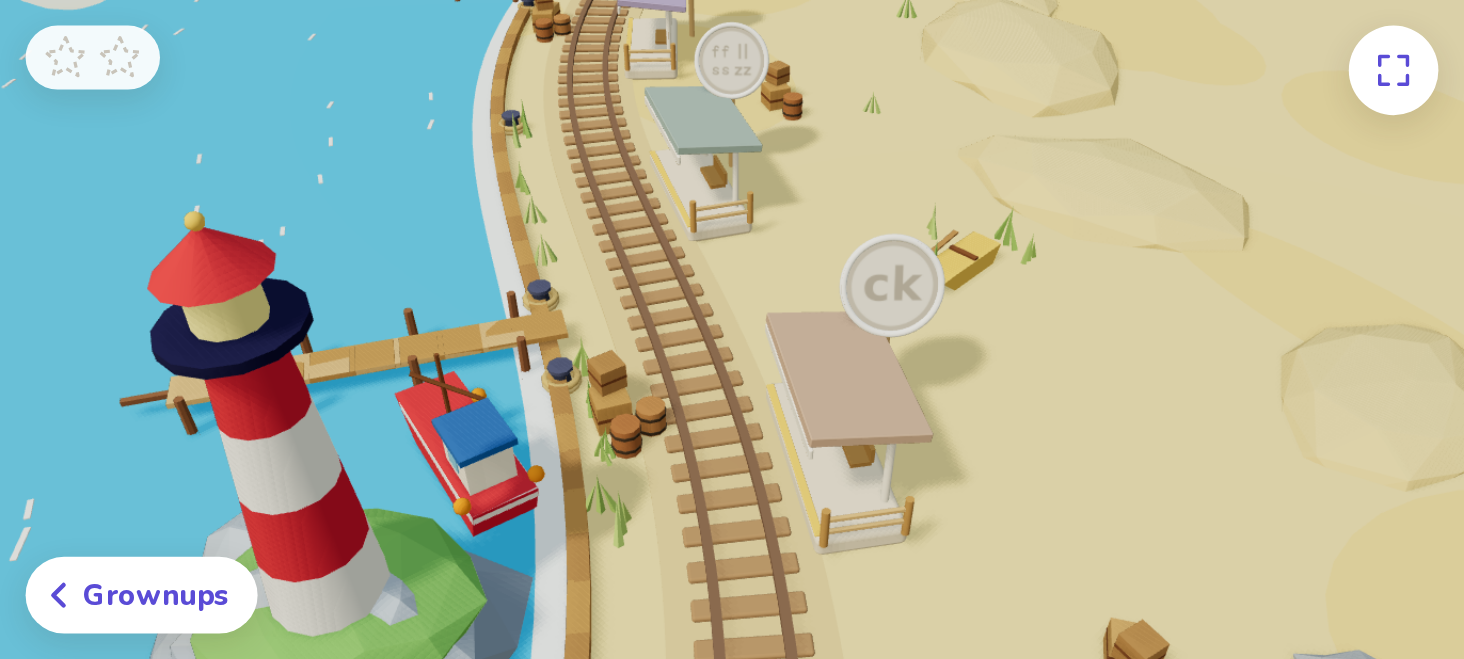
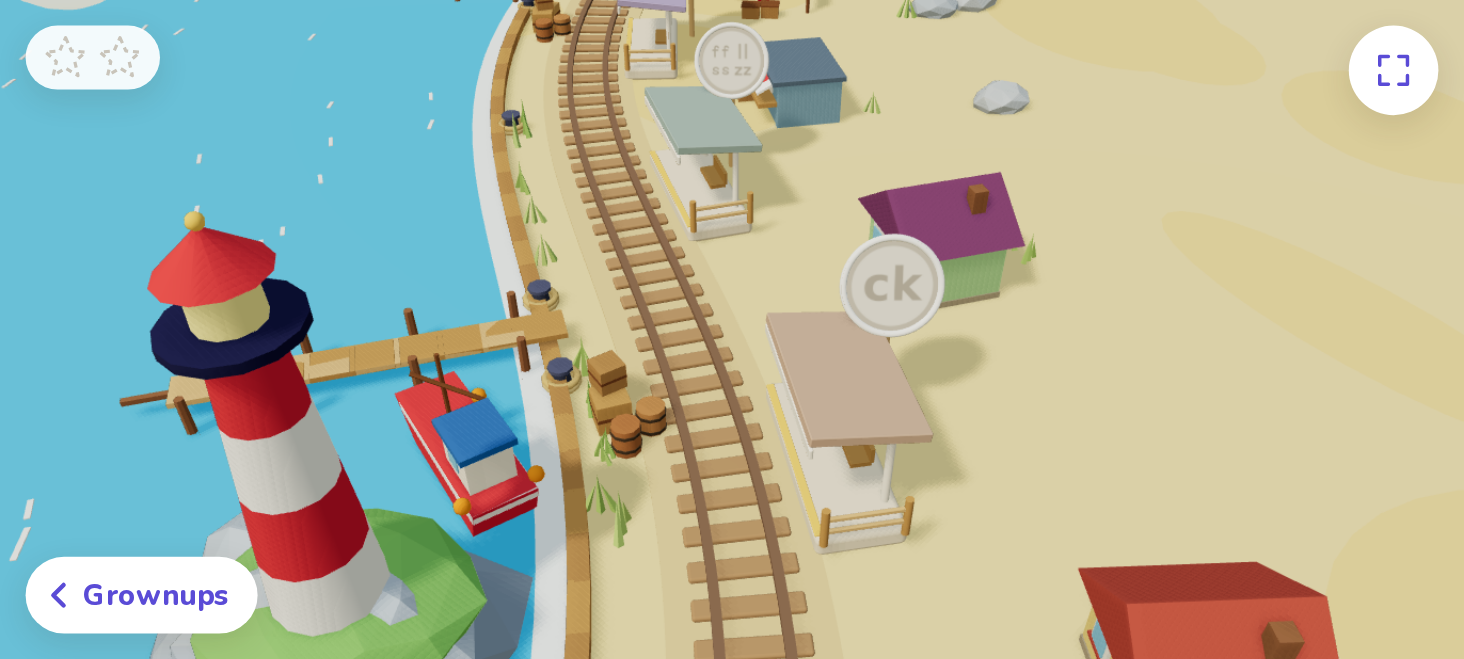
Regions: greener W3 portal mountain with crop stripes and orchard trees; W4 harbour village replaces the dunes
Claude-Session: https://claude.ai/code/session_016cKvBQBv9Ceas6c2YjYcfF

diff --git a/js/train/regions.js b/js/train/regions.js
@@ -127,7 +127,7 @@ function sunnyHills({ bag, line, stops, stationCount, group, sky, R }) {
   const real = stops.length; void real;
 
   // rolling hills, far and near, in a few golden greens
-  const lows = ['#9CCB45', '#8CC24A', '#A8CE4C', '#93C84B'], highs = ['#EBDC6A', '#E0DB68', '#F2E074', '#E6DA66'];
+  const lows = ['#6DBE48', '#5FB646', '#7BC44A', '#68BC47'], highs = ['#BCD95A', '#AED45A', '#CADB62', '#B6D65C'];
   let hills = 0;
   for (let i = 0; i < 34 && hills < 22; i++) {
     const far = i % 2 === 0, s = L0 - 4 + (i / 34) * (span + 8) + R() * 3, off = (far ? -1 : 1) * (far ? 10 + R() * 9 : 11 + R() * 10);
@@ -465,30 +465,73 @@ function docks({ bag, line, stops, stationCount, group, sky, R, W }) {
     m.castShadow = false;
     group.add(m);
   }
-  // the landward side: low sand dunes, a few grey-blue rocks, crates and barrels between the stations, a rowing boat pulled up on the sand
+  // the landward side: a little harbour village on the stations' side, one thing in each gap between stations (beyond the signs):
+  // four colourful cottages, a fish shack with a striped awning, buoys, lobster pots and a net-drying rack, a beach umbrella and a rowing boat
   {
     const rock = blobGeo(bag, 'rockblob', 733, { detail: 1, jit: 0.3 });
-    const dune = blobGeo(bag, 'duneblob', 521, { detail: 1, jit: 0.2 });
-    for (let i = 0; i < 12; i++) {
-      const s = L0 - 4 + (i / 12) * (span + 8) + R() * 3, off = (i % 3 === 0 ? 8.5 : 11.5) + R() * 8, f = frame(s, off);
-      if (nearExtra(s, 7) && off < 18) continue;
-      const k = 0.8 + R() * 0.6;
-      bake.add(dune, { p: [f.x, -0.22, f.z], r: [0, R() * 3, 0], s: [3.4 * k, 0.9 * k, 2.4 * k], colorFn: (c) => lerpHex('#EBCF8A', '#F7E3A6', Math.max(0, (c.y + 0.2) / (0.9 * k))) });
+    const TRIM = '#FFF8EC';
+    // a local frame at the middle of gap i: +x points at the track, +z along the line
+    const gap = (i, off) => { const s = stops[Math.min(i, stationCount - 1)] + 4.5; if (i >= stationCount - 1 || nearExtra(s, 6)) return null; const f = frame(s, off), c = Math.cos(f.heading), sn = Math.sin(f.heading); return { f, hd: f.heading, lp: (lx, ly, lz) => [f.x + lx * c + lz * sn, ly, f.z - lx * sn + lz * c] }; };
+    const cottage = (g, wall, roof, door) => {
+      const { lp, hd } = g, R0 = [0, hd, 0], D = 2.0, W = 2.2, H = 1.35;
+      bake.add(box(bag, D, H, W), { p: lp(0, H / 2, 0), r: R0, color: wall });
+      bake.add(box(bag, D + 0.04, 0.14, W + 0.04), { p: lp(0, 0.07, 0), r: R0, color: '#B7A98F' });
+      bake.add(prism(bag, W + 0.45, 0.95, D + 0.5), { p: lp(0, H, 0), r: [0, hd + Math.PI / 2, 0], color: roof });
+      bake.add(box(bag, 0.08, 0.1, 0.1), { p: lp(0, 0, 0), r: R0, color: roof });
+      bake.add(box(bag, 0.3, 0.55, 0.3), { p: lp(-0.5, H + 0.7, -0.5), r: R0, color: '#9A6B4A' }); // chimney
+      bake.add(box(bag, 0.07, 0.92, 0.52), { p: lp(D / 2 + 0.03, 0.46, -0.45), r: R0, color: door });
+      bake.add(box(bag, 0.07, 0.5, 0.5), { p: lp(D / 2 + 0.03, 0.82, 0.55), r: R0, color: TRIM });
+      bake.add(box(bag, 0.09, 0.36, 0.36), { p: lp(D / 2 + 0.05, 0.82, 0.55), r: R0, color: '#8FD0F0' });
+      bake.add(box(bag, 0.09, 0.05, 0.62), { p: lp(D / 2 + 0.05, 0.56, 0.55), r: R0, color: roof }); // sill
+      bake.add(box(bag, 0.5, 0.5, 0.07), { p: lp(0.1, 0.8, W / 2 + 0.03), r: R0, color: TRIM });
+      bake.add(box(bag, 0.36, 0.36, 0.09), { p: lp(0.1, 0.8, W / 2 + 0.05), r: R0, color: '#8FD0F0' });
+    };
+    [['#F9B8C6', '#B9484C', '#4F86C6'], ['#9FD8DD', '#3F6E9A', '#F2B94B'], ['#FFE08A', '#C0594A', '#3C9C8A'], ['#B8E3A2', '#8A4F7D', '#E5484D']].forEach((c, i) => { const g = gap(i, 5.7); if (g) cottage(g, ...c); });
+    // the fish shack: weathered blue boards, a counter, a red-and-white striped awning, a sign
+    {
+      const g = gap(4, 5.6);
+      if (g) {
+        const { lp, hd } = g, R0 = [0, hd, 0];
+        bake.add(box(bag, 1.7, 1.2, 2.4), { p: lp(0, 0.6, 0), r: R0, color: '#8FB4C9' });
+        bake.add(box(bag, 1.95, 0.12, 2.65), { p: lp(0.05, 1.28, 0), r: [0, hd, 0.0], color: '#6B7F93' });
+        for (let k = -3; k <= 3; k++) bake.add(box(bag, 0.5, 0.06, 0.34), { p: lp(1.2, 1.12 - 0.0, k * 0.34), r: [0, hd, -0.5], color: k % 2 ? '#FFFFFF' : '#E5484D' });
+        bake.add(box(bag, 0.6, 0.12, 2.2), { p: lp(1.05, 0.62, 0), r: R0, color: '#C99A5B' });
+        bake.add(box(bag, 0.06, 0.4, 1.2), { p: lp(0.86, 0.92, 0), r: R0, color: TRIM });
+        bake.add(box(bag, 0.5, 0.4, 0.5), { p: lp(1.3, 0.2, 0.7), r: R0, color: '#B98B55' });
+        for (const z of [-0.3, 0.1]) bake.add(ball(bag, 8, 6), { p: lp(1.3, 0.45, z + 0.7), s: [0.2, 0.08, 0.1], color: '#9FB6C8', smooth: true });
+      }
+    }
+    // buoys, lobster pots and a net-drying rack
+    {
+      const g = gap(5, 5.4);
+      if (g) {
+        const { lp, hd } = g, R0 = [0, hd, 0];
+        [[0.3, 0.3], [1.0, 0.5], [0.6, 1.0]].forEach(([u, v], i) => { const col = i === 1 ? '#FFFFFF' : '#E5484D'; bake.add(ball(bag, 12, 8), { p: lp(u, 0.3, v), s: [0.3, 0.3, 0.3], color: col, smooth: true }); bake.add(cyl(bag, 0.305, 0.305, 0.1, 12), { p: lp(u, 0.3, v), color: i === 1 ? '#E5484D' : '#FFFFFF', smooth: true }); });
+        for (const [u, v] of [[0.0, -0.9], [0.6, -1.0]]) { bake.add(box(bag, 0.55, 0.38, 0.45), { p: lp(u, 0.19, v), r: R0, color: '#B98B55' }); bake.add(box(bag, 0.6, 0.05, 0.5), { p: lp(u, 0.4, v), r: R0, color: '#8A5A35' }); }
+        for (const z of [-0.5, 1.9]) bake.add(cyl(bag, 0.06, 0.06, 1.6, 6), { p: lp(-1.2, 0.8, z), color: '#8A5A35' });
+        bake.add(box(bag, 0.07, 0.07, 2.6), { p: lp(-1.2, 1.55, 0.7), r: R0, color: '#8A5A35' });
+        bake.add(box(bag, 0.05, 0.9, 2.2), { p: lp(-1.2, 1.05, 0.7), r: R0, color: '#6FB1C8' });
+        for (let k = 0; k < 4; k++) bake.add(box(bag, 0.07, 0.9, 0.04), { p: lp(-1.2, 1.05, -0.3 + k * 0.6), r: R0, color: '#4E8FA8' });
+        for (let k = 0; k < 3; k++) bake.add(box(bag, 0.07, 0.04, 2.2), { p: lp(-1.2, 0.8 + k * 0.25, 0.7), r: R0, color: '#4E8FA8' });
+      }
+    }
+    // a striped beach umbrella and a rowing boat pulled up on the sand
+    {
+      const g = gap(6, 5.6);
+      if (g) {
+        const { lp } = g;
+        bake.add(cyl(bag, 0.04, 0.04, 1.7, 6), { p: lp(0, 0.85, 0), r: [0, 0, 0.12], color: '#F4F0E6' });
+        bake.add(bag.geo('umbr', () => new THREE.ConeGeometry(1.0, 0.45, 8)), { p: lp(-0.1, 1.75, 0), color: '#E5484D', smooth: false, colorFn: (c, t) => (t % 4 < 2 ? '#E5484D' : '#FFFFFF') });
+        bake.add(box(bag, 0.7, 0.03, 1.4), { p: lp(0.9, 0.03, 0.3), r: [0, g.hd + 0.3, 0], color: '#5AC8FA' });
+        boat(g.f, 1.6, -2.0, 0.5, 'row');
+      }
     }
     for (let i = 0; i < 8; i++) {
-      const s = L0 + R() * span, off = 5.0 + R() * 4, f = frame(s, off);
-      if (nearStop(s, 3.2) || nearExtra(s, 6)) continue;
+      const s = L0 + R() * span, off = 8.0 + R() * 4, f = frame(s, off);
+      if (nearExtra(s, 6)) continue;
       const k = 0.4 + R() * 0.45;
       bake.add(rock, { p: [f.x, k * 0.2, f.z], r: [0, R() * 3, 0], s: [k * 1.2, k * 0.75, k], color: ['#B8C2CC', '#C8CFD6', '#A9B6C3'][i % 3] });
     }
-    for (const i of [0, 2, 4, 6]) {
-      const sA = stops[Math.min(i, stationCount - 1)] + 4.6;
-      if (nearExtra(sA, 6)) continue;
-      const g3 = frame(sA, 5.0);
-      crate(g3, 0, 0, 0, 0.6, 0.2, '#C99A5B'); crate(g3, 0.7, 0.2, 0, 0.5, -0.3, '#D4A769'); crate(g3, 0.25, 0.1, 0.6, 0.46, 0.5, '#B98B55'); barrel(g3, -0.7, 0.3, '#B77A4A');
-    }
-    const sB = stops[Math.min(3, stationCount - 1)] + 4.5;
-    if (!nearExtra(sB, 6)) boat(frame(sB, 0), 0, -6.4, 0.5, 'row');
   }
   bake.finish(group);
 

diff --git a/js/train/tunnel.js b/js/train/tunnel.js
@@ -39,7 +39,7 @@ function geoFrom(bag, pos, col) {
 // A faceted peak: a low-detail icosahedron pulled into a mountain (pointed top, wide foot), its vertices jittered by a seeded
 // random so it looks hand-made, painted by height from `low` to `high`. Its triangles go into `acc` (merged into one mesh).
 function addPeak(acc, o) {
-  const { cx, cz, rx, ry, rz, yaw = 0, seed, jit = 0.22, low, high, fix, cap = null } = o;
+  const { cx, cz, rx, ry, rz, yaw = 0, seed, jit = 0.22, low, high, fix, cap = null, stripe = null } = o;
   const R = rng(seed), cache = new Map();
   const g = new THREE.IcosahedronGeometry(1, 1), pa = g.getAttribute('position');
   const jitter = (x, y, z) => { const k = `${x.toFixed(3)},${y.toFixed(3)},${z.toFixed(3)}`; let j = cache.get(k); if (!j) { j = [R() - 0.5, R() - 0.5, R() - 0.5]; cache.set(k, j); } return j; };
@@ -57,8 +57,13 @@ function addPeak(acc, o) {
   const c = new THREE.Color(), a = new THREE.Vector3(), b = new THREE.Vector3(), n = new THREE.Vector3();
   for (let t = 0; t < pts.length; t += 3) {
     const shade = 0.93 + R() * 0.14, [p0, p1, p2] = [pts[t], pts[t + 1], pts[t + 2]];
-    for (const p of [p0, p1, p2]) { gradient(c, p[1], ry * 0.85, low, high, shade, cap); acc.pos.push(p[0], p[1], p[2]); acc.col.push(c.r, c.g, c.b); }
     a.set(p1[0] - p0[0], p1[1] - p0[1], p1[2] - p0[2]); b.set(p2[0] - p0[0], p2[1] - p0[1], p2[2] - p0[2]); n.crossVectors(a, b).normalize();
+    // a theme's crop-field stripes (W3): gentle slopes in a height band alternate two field colours, in bands
+    const mid = (p0[1] + p1[1] + p2[1]) / 3 / ry, field = stripe && n.y > 0.3 && mid > stripe.from && mid < stripe.to;
+    for (const p of [p0, p1, p2]) {
+      if (field) c.copy(Math.floor(mid * stripe.n) % 2 ? stripe.c1 : stripe.c2).multiplyScalar(shade); else gradient(c, p[1], ry * 0.85, low, high, shade, cap);
+      acc.pos.push(p[0], p[1], p[2]); acc.col.push(c.r, c.g, c.b);
+    }
     acc.faces.push({ p0, p1, p2, n: n.clone(), top: ry });
   }
 }
@@ -214,6 +219,7 @@ export function buildTunnel(bag, line, s, flip = false, opts = {}) {
   const cap = T.cap ? { from: T.cap.from, color: new THREE.Color(T.cap.color) } : null;
   const low = new THREE.Color(T.low), high = new THREE.Color(T.high);
   const lowS = new THREE.Color(T.lowS), highS = new THREE.Color(T.highS);
+  const stripe = T.stripe ? { ...T.stripe, c1: new THREE.Color(T.stripe.c1), c2: new THREE.Color(T.stripe.c2) } : null;
   // the mountain and its shoulders, merged into one mesh. Where the golden tunnel runs in, the mountain's foot is held back
   // behind the glowing disc, so nothing covers it.
   // (eased out over a wide margin, so no big triangle can swing across the mouth)
@@ -223,7 +229,7 @@ export function buildTunnel(bag, line, s, flip = false, opts = {}) {
     : (v) => { if (v[2] < 0.55) v[2] += (0.55 - v[2]) * hold(v); };
   const acc = { pos: [], col: [], faces: [] };
   const cz = rear ? 0 : 0.7, back = rear ? -1 : 1; // (the camera's end of a start tunnel is +z, so its far shoulders go the other way)
-  addPeak(acc, { cx: 0, cz, rx: 3.7, ry: 6.3, rz: rear ? 2.9 : 2.8, seed: 5, low, high, fix, cap });
+  addPeak(acc, { cx: 0, cz, rx: 3.7, ry: 6.3, rz: rear ? 2.9 : 2.8, seed: 5, low, high, fix, cap, stripe });
   const sh = { pos: [], col: [], faces: [] };
   const side = [
     { cx: -5.0, cz: cz - 0.3, rx: 2.6, ry: 3.1, rz: 2.3, seed: 21, yaw: 0.4 },
@@ -232,7 +238,7 @@ export function buildTunnel(bag, line, s, flip = false, opts = {}) {
     { cx: 3.4, cz: cz + 2.4 * back, rx: 2.3, ry: 3.0, rz: 2.0, seed: 59, yaw: 0.9 },
     { cx: -7.4, cz: cz + 0.4, rx: 2.2, ry: 1.7, rz: 2.0, seed: 71, yaw: 0.1 },
   ];
-  for (const o of side) addPeak(acc, { ...o, low: lowS, high: highS, fix, cap });
+  for (const o of side) addPeak(acc, { ...o, low: lowS, high: highS, fix, cap, stripe });
   const hill = new THREE.Mesh(geoFrom(bag, acc.pos, acc.col), bag.paint('#ffffff', { roughness: 0.9, vertexColors: true, flatShading: true }));
   hill.castShadow = true; hill.receiveShadow = true;
   group.add(hill);
@@ -260,6 +266,17 @@ export function buildTunnel(bag, line, s, flip = false, opts = {}) {
     for (let j = 0; j < n; j++) lists[(k + j) % 4].push([sp.x + (j ? (R() - 0.5) * 0.34 : 0), sp.y + (sp.slope && j ? (R() - 0.3) * 0.12 : 0), sp.z + (j ? (R() - 0.5) * 0.3 : 0), 0.8 + R() * 0.5]);
   });
   const mm = new THREE.Matrix4(), qq = new THREE.Quaternion(), vv = new THREE.Vector3(), ss = new THREE.Vector3();
+  // a few little orchard trees on the shoulders (W3): round crowns on short trunks, two instanced meshes
+  if (T.stripe) {
+    const low3 = acc.faces.filter((f) => f.n.y > 0.55 && (f.p0[1] + f.p1[1] + f.p2[1]) / 3 < 0.5 * f.top && (f.p0[1] + f.p1[1] + f.p2[1]) / 3 > 0.35 && !(Math.abs((f.p0[0] + f.p1[0] + f.p2[0]) / 3) < 3.4 && (f.p0[2] + f.p1[2] + f.p2[2]) / 3 < 0.7 && (f.p0[1] + f.p1[1] + f.p2[1]) / 3 < 3.4));
+    const n3 = Math.min(8, low3.length);
+    const trunks = new THREE.InstancedMesh(bag.geo('portaltrunk', () => new THREE.CylinderGeometry(0.05, 0.07, 0.4, 6)), bag.paint('#9A6B4A', { roughness: 0.9 }), n3);
+    const crowns = new THREE.InstancedMesh(bag.geo('portalcrown', () => new THREE.IcosahedronGeometry(0.32, 1)), bag.paint('#4FAE48', { roughness: 0.85, flatShading: true }), n3);
+    const m3 = new THREE.Matrix4(), q3 = new THREE.Quaternion(), v3 = new THREE.Vector3(), s3 = new THREE.Vector3(1, 1, 1);
+    for (let k = 0; k < n3; k++) { const o = onFace(R, low3[Math.floor(R() * low3.length)], 0.0); trunks.setMatrixAt(k, m3.compose(v3.set(o.x, o.y + 0.15, o.z), q3.identity(), s3)); crowns.setMatrixAt(k, m3.compose(v3.set(o.x, o.y + 0.55, o.z), q3.identity(), s3.set(1, 1.1, 1))); s3.set(1, 1, 1); }
+    trunks.castShadow = crowns.castShadow = true;
+    if (n3) group.add(trunks, crowns);
+  }
   if (T.flowers === 'sunflowers') {
     // sunflowers: a yellow flat head with a brown centre facing the camera's side (W3)
     const all = lists.flat(), dz = flip ? 1 : -1;

diff --git a/js/train/themes.js b/js/train/themes.js
@@ -25,10 +25,10 @@ const SUNNY = {
   decor: 'sunny',
   skyCss: 'linear-gradient(to bottom, #B8E1FF 0%, #E3F0EE 28%, #FFF1CC 60%, #FFF1CC 100%)',
   fog: '#FFF1CC',
-  hemiSky: '#E6F2FF', hemiGround: '#D8D676', sun: '#FFE6B0', across: 9.6, sidePortrait: 1.8,
+  hemiSky: '#E6F2FF', hemiGround: '#A9D183', sun: '#FFEBC4', across: 9.6, sidePortrait: 1.8,
   ground: '#BADA52', patch: '#B1D44C', bed: '#F6E9CC',
   // a golden-ochre mountain with sunflowers on its slopes
-  mountain: { low: '#C58F2E', high: '#F6E08A', lowS: '#B9C94E', highS: '#E6DC7A', cap: null, flowers: 'sunflowers' },
+  mountain: { low: '#4DB043', high: '#7FCB4C', lowS: '#5BBA48', highS: '#96D04F', cap: { from: 0.8, color: '#F3D562' }, flowers: 'sunflowers', stripe: { from: 0.1, to: 0.5, n: 9, c1: '#E2C650', c2: '#86C94D' } },
 };
 
 const DOCKS = {
